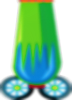
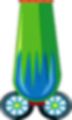
Fixed some bugs

diff --git a/src/main/java/bubbleshooter/view/cannon/DrawCannon.java b/src/main/java/bubbleshooter/view/cannon/DrawCannon.java
@@ -13,7 +13,7 @@ import javafx.scene.transform.Rotate;
 public class DrawCannon {
 
     private static final double CANNON_FIT_WIDTH = 10;
-    private static final double CANNON_FIT_HEIGTH = 6;
+    private static final double CANNON_FIT_HEIGTH = 5;
 
     private final Rotate rotation = new Rotate();
     private final Cannon cannon;
